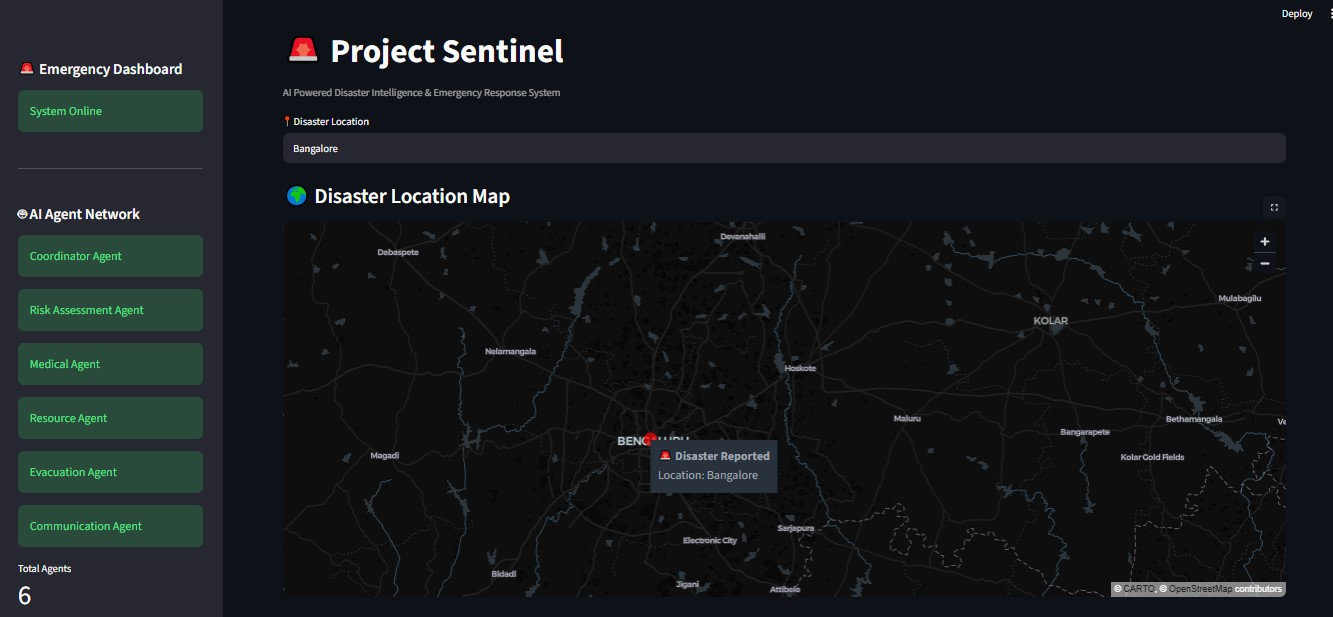
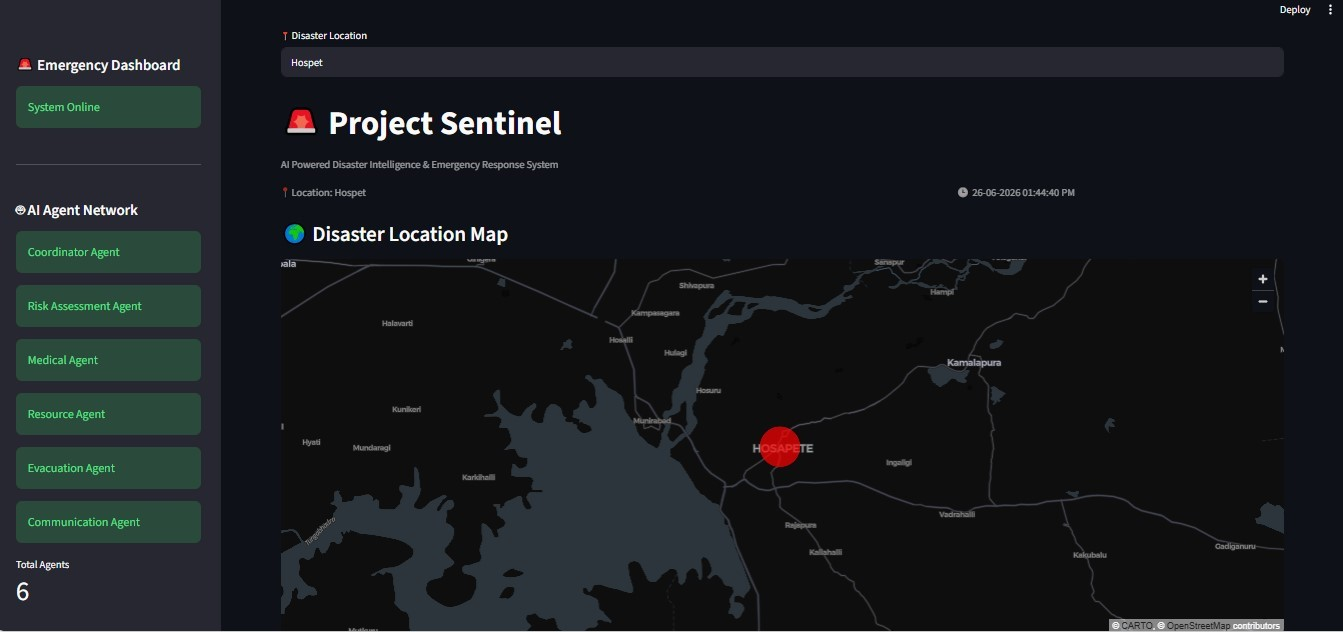
Update README and project screenshots

diff --git a/README.md b/README.md
@@ -3,7 +3,7 @@
 
 
 
-![Project Sentinel](screenshots/Project_Sentinel.png)
+
 
 
 AI-Powered Disaster Intelligence & Emergency Response System
@@ -37,14 +37,17 @@ Built as a Capstone Project for the Kaggle + Google 5-Day AI Agents Intensive Co
 ### Intelligence Module
 
 ![Intelligence](screenshots/Intelligence.jpg)
+![Intelligence](screenshots/Intelligence1.jpg)
 
 ### Evacuation Planning
 
 ![Evacuation](screenshots/Evaculation.jpg)
+![Evacuation](screenshots/Evaculation1.jpg)
 
 ### Emergency Alerts
 
 ![Alerts](screenshots/Alerts.jpg)
+![Alerts](screenshots/Alerts1.jpg)
 
 ### Disaster Reports
 